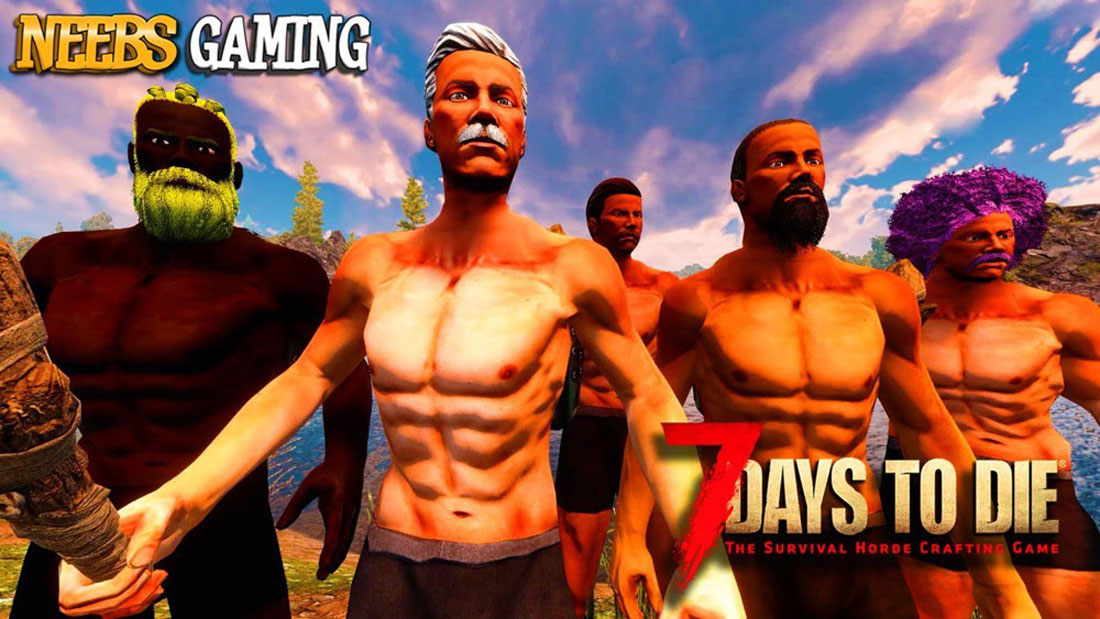
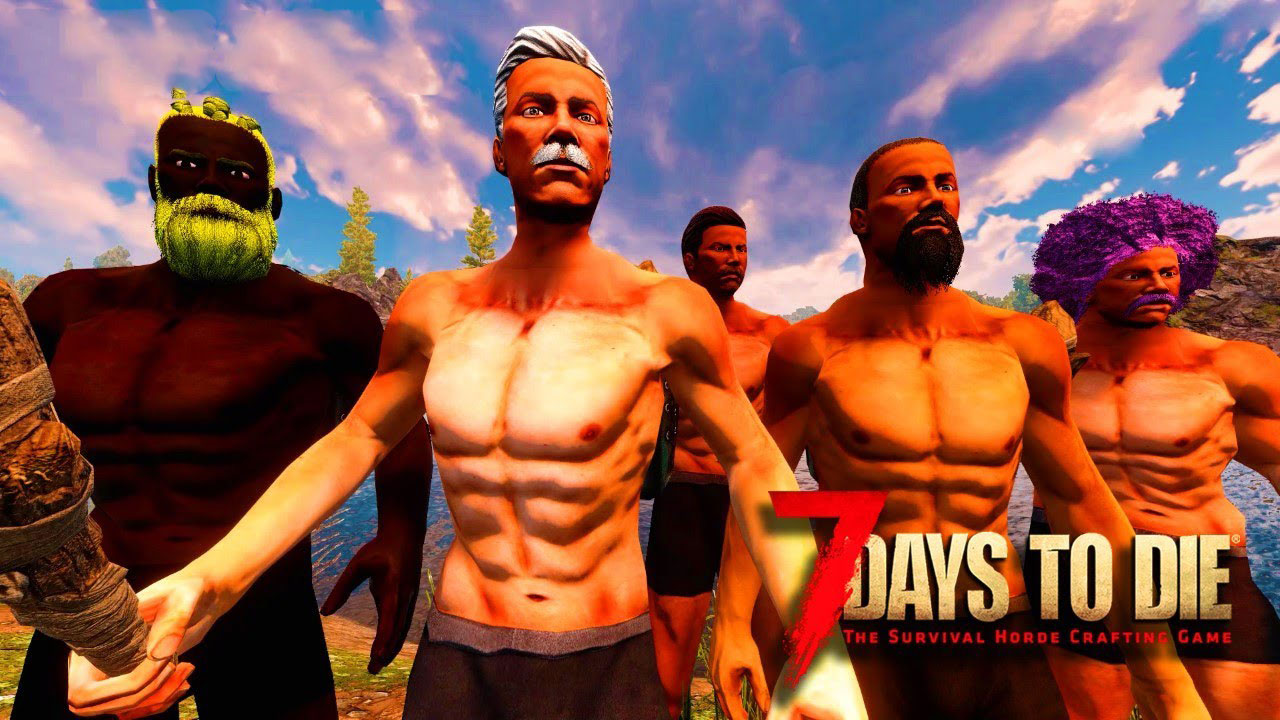
added horizontal styles for desktop res, lrg-compressed imgs, mobile spacing

diff --git a/src/scss/components/_tile.scss b/src/scss/components/_tile.scss
@@ -1,34 +1,42 @@
-@use '../abstracts/' as *;
+@use '../abstracts/variables' as *;
+@use '../abstracts/fonts' as *;
+@use '../abstracts/colors' as *;
 
 .tile {
-    max-width: 1400px;
-    // background-size: contain;
-    // background-position: center center;
-    // background-repeat: no-repeat;
-   
-    & img, 
-    & > .iframe {
-        border-radius: 2rem;
-        width: 100%;
-        aspect-ratio: 16 / 9;
+    // border: solid purple 2px;
+    width: 100%;
+    height: 100%;
+    aspect-ratio: 16 / 9;
+    border-radius: 2rem;
+    background-size: cover;
+    background-position: center;
+    background-repeat: no-repeat;
+}
+
+.subtitle {
+    color: $clr-white;
+    padding: 1rem 0 4rem;
+
+    @media (min-width: $mq-1000) {
+        display: grid;
+        align-content: end;
+        height: 100%;
+        padding: 4rem 5rem;
+        background: linear-gradient(180deg, rgba(0, 0, 0, 0) 23.85%, #030303 118.65%);
+        text-transform: uppercase;
+        font-weight: $fw-700;
+        color: transparent;
+    
+        &:hover,
+        &:focus {
+            background: linear-gradient(180deg, rgba(0, 0, 0, 0.466) 23.85%, #030303 118.65%);
+            color: $clr-white;
+        }
+        
     }
 
-    // @media (min-width: $mq-1000) {
-    //     display: grid;
-    //     grid-template-areas: 
-    //         ' img img img'
-    //         ' img img img'
-    //         ' img img img'
-    //         ' sub sub sub';
-
-    //     & img, 
-    //     & > .iframe {
-    //         grid-area: img;
-    //     }
-
-    //     & .subtitle {
-    //         grid-area: sub;
-    //     }
-    // }
 }
+
+
+
 

diff --git a/src/pages/home/Home.js b/src/pages/home/Home.js
@@ -7,30 +7,34 @@ import {homeData} from '../../data/home-data';
 const Home = () => {
     return (
         <div className="home">
-            <Hero />
-            {/* <div className="tile">
-                <iframe 
-                    className="iframe"
-                    src="https://www.youtube.com/embed?max-results=1&controls=1&rel=0&listType=user_uploads&list=NeebsGaming" 
-                    frameBorder="0" 
-                    allowFullScreen
-                    title="Neebs Gaming latest video">
-                </iframe>
-                <p className="subtitle">Checkout our latest video</p>
-            </div> */}
-                
+            <Hero />  
             {
                 homeData.map(item => {
-                //    return <ImgTile img={item.img} subtitle={item.subtitle} alt={item.alt} link={item.link}/>
-                return <Tile {...item}/>
-
+                    return (
+                        <a href={item.link}>
+                            <Tile {...item}/>
+                        </a>
+                    )
+                    
                 })
             }
             <Footer />
         </div>
 
-    )
+)
 }
 
 export default Home;
 
+{/* <div className="tile">
+<iframe 
+className="iframe"
+src="https://www.youtube.com/embed?max-results=1&controls=1&rel=0&listType=user_uploads&list=NeebsGaming" 
+frameBorder="0" 
+allowFullScreen
+title="Neebs Gaming latest video">
+</iframe>
+<p className="subtitle">Checkout our latest video</p>
+</div> */}
+
+//    return <ImgTile img={item.img} subtitle={item.subtitle} alt={item.alt} link={item.link}/>

diff --git a/src/scss/pages/_home.scss b/src/scss/pages/_home.scss
@@ -1,26 +1,21 @@
 @use '../abstracts/variables' as *;
+@use '../abstracts/colors' as *;
+@use '../abstracts/fonts' as *;
 
 .home {
-    border: solid red 2px;
-    padding: 2rem clamp(1rem, 4vw, 3rem) 2rem; 
+    // border: solid red 2px;
+    padding: 2rem clamp(1rem, 4vw, 4rem) 2rem; 
 
-    & > * {
-        border: solid green 2px;
+    & > a {
+        text-decoration: none;
     }
 
     @media (min-width: $mq-1000) {
         padding-top: 10rem;
-        // padding-bottom: 5rem;
         height: 100vh;
         display: flex;
-        gap: 2rem;
+        gap: 5rem;
         overflow-x: scroll;
-
-        
-        & > * {
-            // margin-block: auto;
-        }
-
 
         & .hero, 
         & .footer {
@@ -28,8 +23,22 @@
             max-width: 1000px;
         }
 
-        & > .tile {
-            flex: 0 0 100%;
+        & > a {
+            // border: solid purple 2px;
+            flex: 0 0 50%;
+            display: inline-grid;
+            grid-template-columns: 1fr 1fr;
+            grid-template-rows: 1fr 1fr;
+            width: clamp(15rem, 40vw, 100rem);
+
+            & .tile,
+            & .subtitle {
+                // border: solid orange 2px;
+                grid-column: 1 / 3;
+                grid-row: 1 / 3;
+            }
         }
     }
 }
+
+

diff --git a/src/components/Tile.js b/src/components/Tile.js
@@ -1,14 +1,17 @@
 
 const Tile = ({ img, subtitle, alt }) => {
     return (
-        <div className="tile" >
-            <img className="img" src={img} alt={alt}></img>
-            <p className="subtitle">{subtitle}</p>
-        </div>
+        <>
+            <div className="tile" style={{backgroundImage: "url(" + img + ")" }} alt={alt}></div>
+            <div className="subtitle">
+                <p className="fs-500">{subtitle}</p>
+            </div>
+        </>
     ) 
- 
+    
 }
 
 export default Tile;
 
-// style={{backgroundImage: "url(" + img + ")" }} alt={alt}
+{/* <img className="img" src={img} alt={alt}></img> */}
+// 

diff --git a/src/components/Button.js b/src/components/Button.js
@@ -3,7 +3,7 @@ import {AiOutlineArrowRight} from 'react-icons/ai'
 
 const Button = ({
     icon,
-    children, 
+    text, 
     href,
     style, 
 }) => {
@@ -16,7 +16,7 @@ const Button = ({
                 target="_blank"
                 rel="noreferrer"
             >
-                {children || "icon"}
+                {text || "icon"}
                 <AiOutlineArrowRight/>
             </a>
 
@@ -30,7 +30,7 @@ const Button = ({
                 target="_blank"
                 rel="noreferrer"
             >
-                {children || "button"}
+                {text || "button"}
             </a>
         )
     }

diff --git a/src/pages/home/sections/Hero.js b/src/pages/home/sections/Hero.js
@@ -11,7 +11,7 @@ const Hero = () => {
                 <p className="body">We play Ark, 7 Days to Die, Battlefield and much more. If you like video games and world peace, </p>
             </div>
             <div>
-                <Button href="https://www.youtube.com/watch?v=HK3F4iT5ghE&t=399s">join the party</Button>
+                <Button text="join the party" href="https://www.youtube.com/watch?v=HK3F4iT5ghE&t=399s" />
             </div>
             <SocialBar />
         </section>

diff --git a/src/scss/components/_buttons.scss b/src/scss/components/_buttons.scss
@@ -27,12 +27,13 @@
         display: inline-flex;
         align-items: center;
         gap: 1rem;
-        letter-spacing: 0px;
-        transition: all 280ms ease-in-out;
+        // letter-spacing: 0px;
+        // transition: all 280ms ease-in-out;
 
         &:hover,
         &:focus {
-            letter-spacing: 3.5px;
+            // letter-spacing: 3.5px;
+            outline: solid 2px $clr-logo;
         }
 
         // &::after, 

diff --git a/src/data/home-data.js b/src/data/home-data.js
@@ -22,5 +22,11 @@ export const homeData = [
         alt: "Neebs Gaming's Battlefield Friends series",
         link: "https://www.youtube.com/playlist?list=PL1Uou2DWH7IHyWIslDFXqjy9bj5fpcsT7"
     },
+    {
+        img: ark, 
+        subtitle: "Ark: Survival Evolved",
+        alt: "Neebs Gaming's Ark series",
+        link: "https://www.youtube.com/playlist?list=PL1Uou2DWH7IGLMNjsEI1SCqZezW_H5Z4q"
+    },
 ]
 

diff --git a/src/scss/sections/_hero.scss b/src/scss/sections/_hero.scss
@@ -1,8 +1,9 @@
 @use '../abstracts/variables' as *;
 
 .hero {
-    gap: 7rem;
+    gap: clamp(4.5rem, 7vw, 7rem);
     align-items: center;
+    margin-bottom: 4rem;
     text-align: center;
 
     & > .flow-xs {
@@ -11,6 +12,7 @@
 
     @media (min-width:  $mq-1000 ) {
         align-items: flex-start;
+        margin-bottom: 0;
         text-align: left;
 
         & > .flow-xs {

diff --git a/src/scss/abstracts/_variables.scss b/src/scss/abstracts/_variables.scss
@@ -12,7 +12,7 @@ $flow-space-xxl: 4rem; // 64px
 $flow-space-xxxl: 8rem; // 128px
 
 /* Padding */
-$p-body: 2rem clamp(1rem, 4vw, 3rem);
+$p-body: 2rem clamp(1rem, 4vw, 4rem);
 
 /* Media Queries */
 $mq-375: 23.438rem; // 375px
